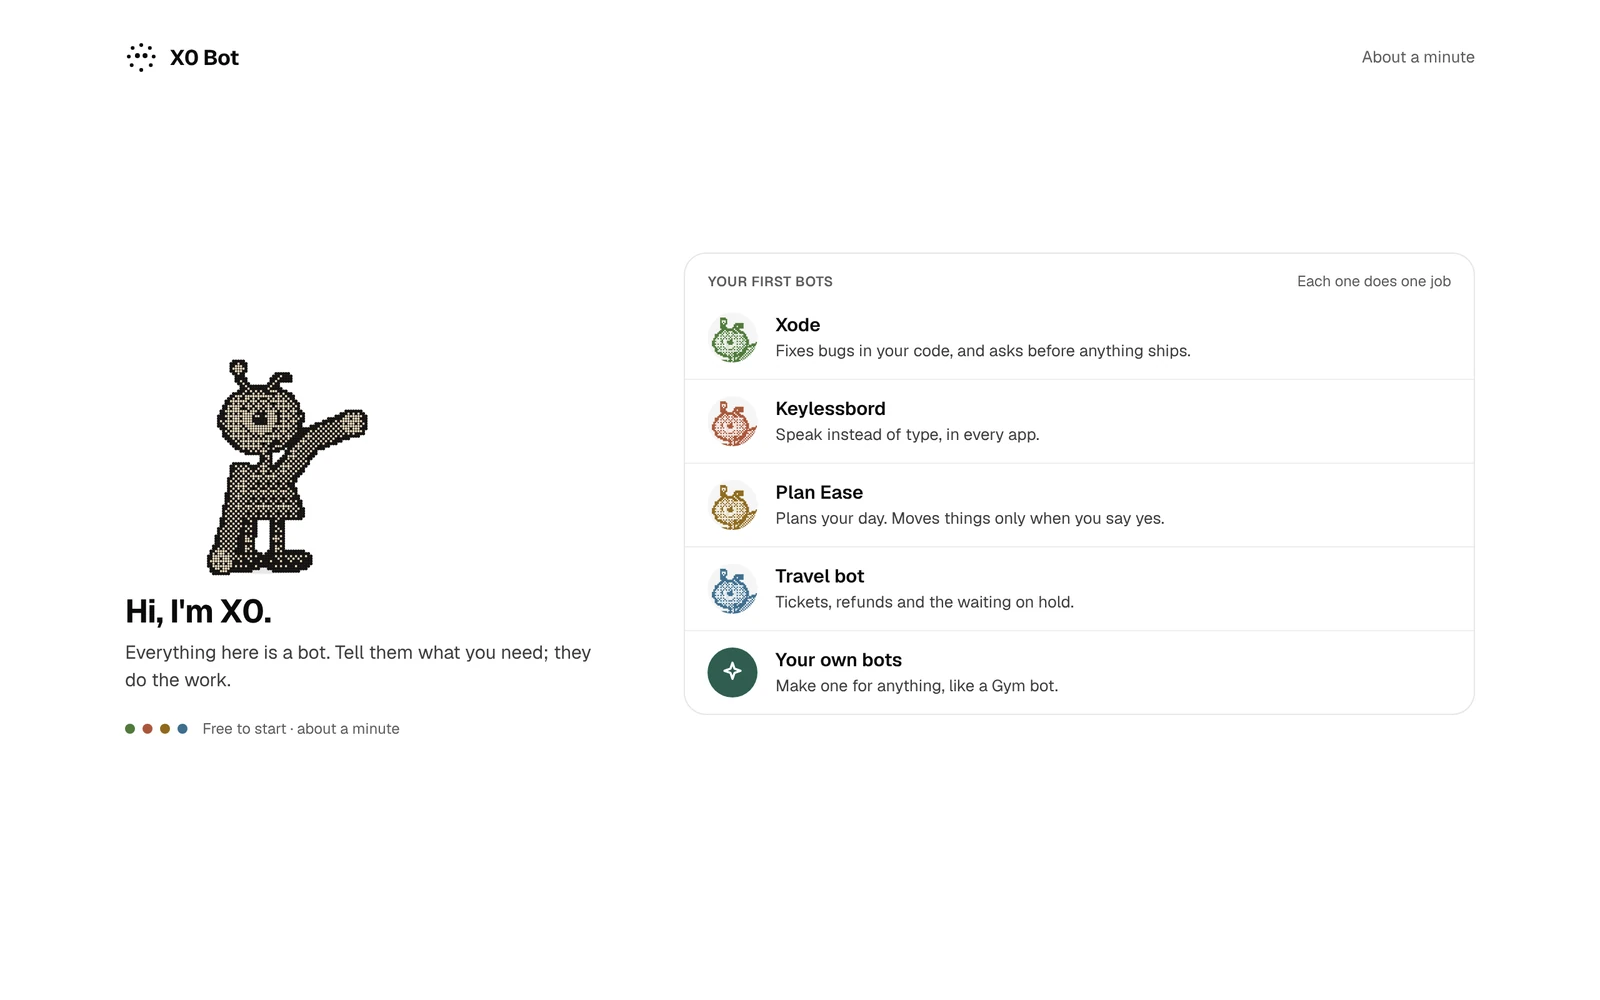
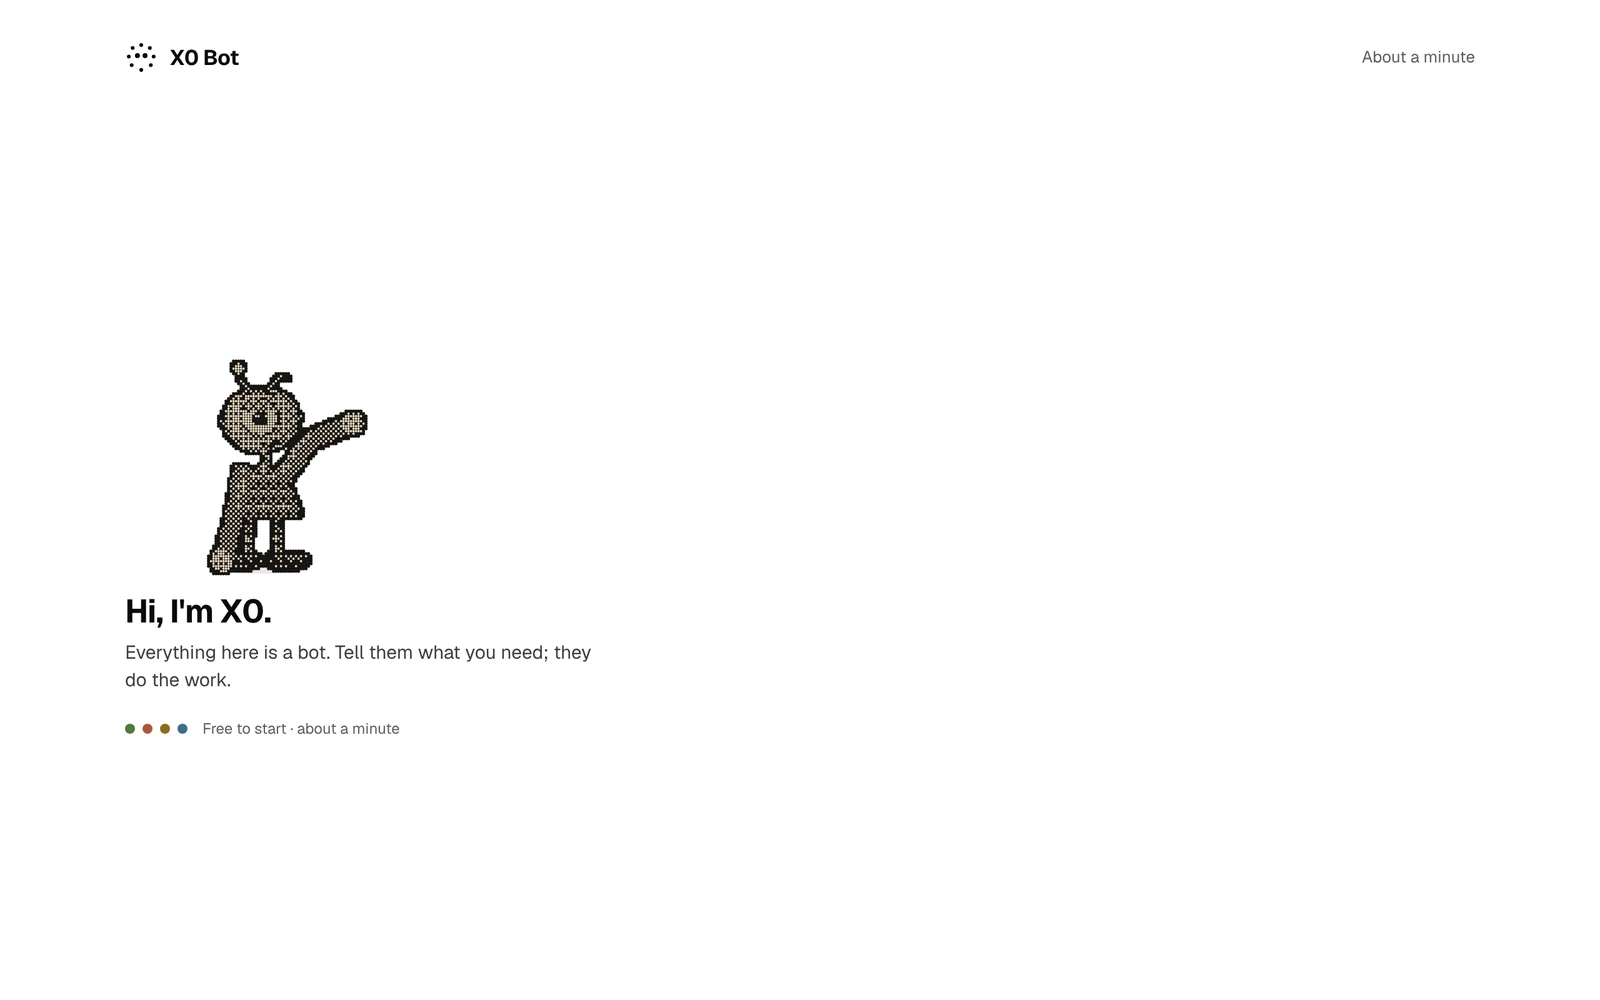
Home page: no bot names on the computer's screen

diff --git a/js/page/welcome.js b/js/page/welcome.js
@@ -1,9 +1,10 @@
 // The app's first screen, the Bots app's Welcome, as the app's own renderers
 // draw it: Blip waving, "Hi, I'm X0.", "Everything here is a bot…" (the phone
-// at 390 x 844; the window at 1280 x 800, with its list of first bots). The
+// at 390 x 844; the window at 1280 x 800). The
 // pictures are the render check's (TAILZU-BACKEND scripts/bots-render,
 // screen bots.welcome) with the Start button and the "I already have an
-// account" link under it painted out: the page moves on without a press.
+// account" link under it painted out (the page moves on without a press),
+// and on the window its list of first bots too.
 // On the phone the system's status bar sits over it, and the screen sits
 // below the island as a phone's safe area puts it.
 const SHOT = {

diff --git a/README.md b/README.md
@@ -46,12 +46,12 @@ antenna between them, the three centred together); on a tall one the phone
 above and the laptop below, and there they wait until all of him is in, so
 they never cover him. Both show the app's real first screen, the Bots app's
 Welcome (Blip waving, "Hi, I'm X0.", "Everything here is a bot. Tell them
-what you need; they do the work.", and on the window the list of first
-bots), drawn by the app's own renderers, with the Start button and the link
-under it painted out: the page moves on without a press. To make them again:
-`cd TAILZU-BACKEND/tulmi && npx tsx scripts/bots-render/render.ts bots.welcome --out <dir>`,
-paint white over the button and the link, and save the phone at 780 x 1688
-and the window at 1600 x 1000 as WebP in `media/`.
+what you need; they do the work."), drawn by the app's own renderers, with
+the Start button and the link under it painted out (the page moves on
+without a press) and, on the window, the list of first bots too. To make
+them again: `cd TAILZU-BACKEND/tulmi && npx tsx scripts/bots-render/render.ts bots.welcome --out <dir>`,
+paint white over the button and the link (and the window's bots list), and
+save the phone at 780 x 1688 and the window at 1600 x 1000 as WebP in `media/`.
 
 **2, out again.** On the next move (or by itself four seconds after step 1
 first settles; never again after the visitor has come back to it) he comes

diff --git a/archi.md b/archi.md
@@ -25,7 +25,7 @@ js/                     the page's script, one ES module per part (no build step
   page/screens.js       the phone and the laptop either side of him (above and below on a tall window), on springs
   page/welcome.js       the app's first screen in them: the app's own render, and the phone's status bar
 css/screens.css         the devices' frames and the screen in them
-media/                  welcome-phone.webp, welcome-desk.webp: the Bots app's Welcome, from its renderers (button and link painted out)
+media/                  welcome-phone.webp, welcome-desk.webp: the Bots app's Welcome, from its renderers (button, link and the window's bots list painted out)
 api/                    Vercel serverless functions (Node)
   _meta.js              shared Meta pixel / Conversions API helpers (reads the dataset id and token from Vercel env)
   site-event.js         POST /v1/site/event: a page event (e.g. a download press) sent to Meta's Conversions API
